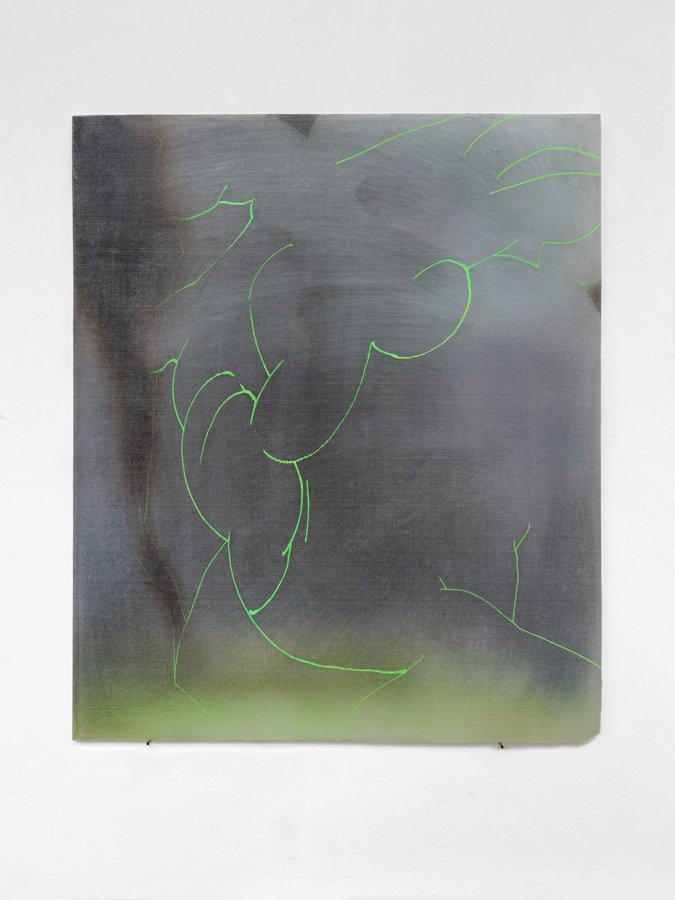
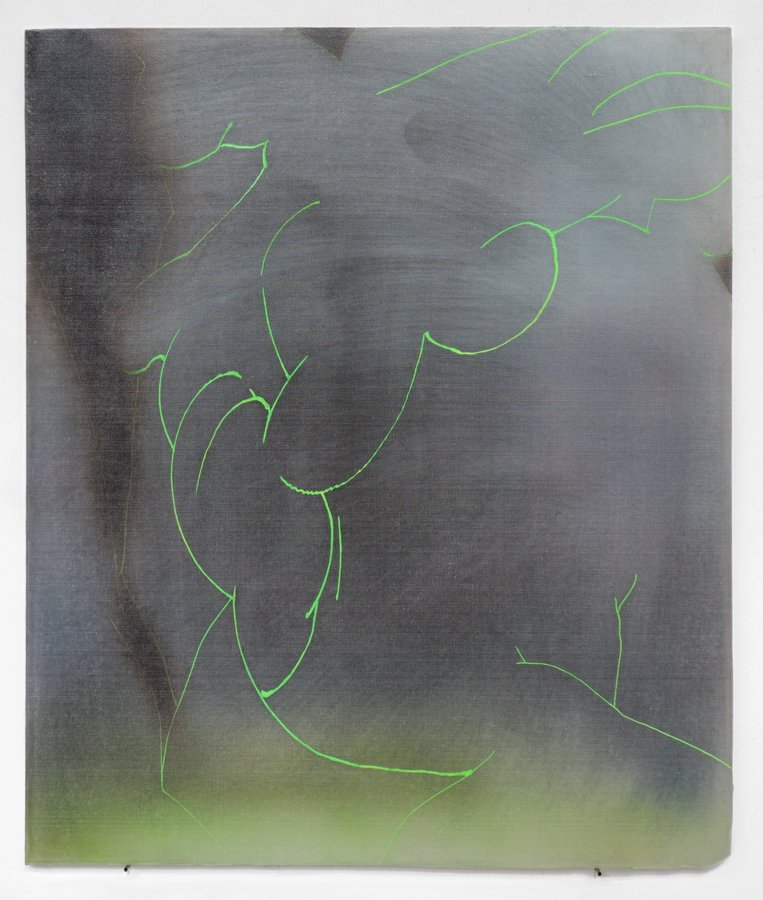
Add files via upload

diff --git a/works/archive/index.html b/works/archive/index.html
@@ -411,6 +411,45 @@
     page simply ends after group 4, same as it would have regardless
     of which group happened to render last.
 
+    IMAGE REPLACEMENT, group 5 (now "Section 1"): all nine of group 5's
+    images (archive-94 through archive-102) were replaced with newer
+    versions the artist supplied — same nine real artworks, same ids,
+    same titles/medium/dimensions/order, only the underlying jpg files
+    (and, where the new photo was framed differently, the `width`/
+    `height` fields) changed. Matched to their existing entries by
+    filename (all nine replacement files use the exact same filenames
+    as the batch that originally created this group) and confirmed by
+    opening and visually comparing each one against its current entry
+    before replacing anything — several are tighter or differently
+    cropped documentation shots of the same piece (most visibly
+    archive-95 and archive-99, both "The Stranger," which went from a
+    wider landscape crop to a tighter near-square one), which is why
+    their `width`/`height` needed updating even though nothing else
+    about the entry did. Resized the same way as every other jpg/png
+    batch on this page — long edge capped at 2200px for `image`, 900px
+    for `thumbnail`, aspect ratio of the NEW source untouched, re-
+    encoded as JPEG. The old versions of these nine files were simply
+    overwritten in place at the same archive-94..102-full/thumb.jpg
+    paths (same convention as every prior "replace," e.g. round 24's
+    sculpture removal, of leaving no orphaned old file — here there's
+    no old file to orphan, since the filename never changes on a
+    same-slot replacement, only its contents do). No entries were
+    added, removed, or reordered.
+
+    Section 1 / Section 2 gap: with group 5 now first (see "SECTION
+    REORDER" above), the artist asked for a visibly larger separation
+    specifically between it and the group that now follows it, on top
+    of the standard inter-group gap already described above — see
+    window.ARCHIVE_XL_GAP_AFTER just above ARCHIVE_WORKS and
+    ".archive-grid--gap-xl" in style.css. This is a second, independent
+    gap tier alongside ARCHIVE_LARGE_GAP_AFTER/.archive-grid--gap-large
+    (the ~650px gap already used elsewhere in this file) — that one's
+    clamp() is tuned for a specific, much taller case and wasn't
+    reused here; this tier targets ~300-350px on a typical desktop
+    width instead, and like the other gap tier, is just a plain
+    whitespace margin with no box, border, caption, or clickable
+    element.
+
     Section 6 onward, and any further reordering, are left for a
     future update — nothing about this structure needs to change to
     append another group or move an existing one again (see the
@@ -463,6 +502,16 @@
   // instead of the normal one (renderGrid() / .archive-grid--gap-large
   // in style.css). Empty array = no category currently needs this.
   window.ARCHIVE_LARGE_GAP_AFTER = ['2022-2026:1'];
+  // See the "Section 1 / Section 2 gap" note above: a second, smaller
+  // opt-in gap tier, independent of ARCHIVE_LARGE_GAP_AFTER (that one's
+  // clamp() is tuned for a much taller ~650px case and isn't reused
+  // here) — '<category>:<group>' keys listed here get a ~300-350px
+  // desktop gap after that group's grid (renderGrid() /
+  // .archive-grid--gap-xl in style.css). Group 5 is now the first
+  // group rendered in "2022-2026" (see the "SECTION REORDER" note
+  // above), so this is what separates it from the group that now
+  // follows it.
+  window.ARCHIVE_XL_GAP_AFTER = ['2022-2026:5'];
   // '<category>:<group>' -> a style.css layout-modifier suffix (see the
   // "SECTION 4" note above and .archive-grid--cols-2 in style.css).
   // Today only group 4 opts into the compact two-column variant; every
@@ -634,7 +683,7 @@
       category: '2022-2026',
       group: 5,
       width: 2200,
-      height: 1650
+      height: 1632
     },
     {
       id: 'archive-95',
@@ -645,8 +694,8 @@
       dimensions: '28.9 × 30 cm',
       category: '2022-2026',
       group: 5,
-      width: 2200,
-      height: 1669
+      width: 2111,
+      height: 2200
     },
     {
       id: 'archive-96',
@@ -657,7 +706,7 @@
       dimensions: '31 × 37 cm',
       category: '2022-2026',
       group: 5,
-      width: 1650,
+      width: 1866,
       height: 2200
     },
     {
@@ -690,8 +739,8 @@
       dimensions: '23.8 × 25 cm',
       category: '2022-2026',
       group: 5,
-      width: 1650,
-      height: 2200
+      width: 2200,
+      height: 2158
     },
     {
       id: 'archive-100',
@@ -714,8 +763,8 @@
       dimensions: '59 × 62.7 cm',
       category: '2022-2026',
       group: 5,
-      width: 1650,
-      height: 2200
+      width: 2200,
+      height: 2145
     },
     {
       id: 'archive-102',
@@ -727,7 +776,7 @@
       category: '2022-2026',
       group: 5,
       width: 2200,
-      height: 1650
+      height: 1817
     },
     {
       id: 'archive-61',

diff --git a/assets/js/main.js b/assets/js/main.js
@@ -732,12 +732,18 @@ var TY_I18N = (function () {
   // where this array is declared (window.ARCHIVE_LARGE_GAP_AFTER).
   var LARGE_GAP_AFTER = Array.isArray(window.ARCHIVE_LARGE_GAP_AFTER) ? window.ARCHIVE_LARGE_GAP_AFTER : [];
 
+  // A second, smaller opt-in gap tier — independent of LARGE_GAP_AFTER,
+  // which targets a different, much taller size for a different case.
+  // See the "Section 1 / Section 2 gap" note in works/archive/index.html
+  // and ".archive-grid--gap-xl" in style.css (window.ARCHIVE_XL_GAP_AFTER).
+  var XL_GAP_AFTER = Array.isArray(window.ARCHIVE_XL_GAP_AFTER) ? window.ARCHIVE_XL_GAP_AFTER : [];
+
   // '<category>:<group>' -> a style.css modifier suffix, applied as
   // "archive-grid--<suffix>" on that group's grid element — e.g.
   // 'cols-2' for the compact two-column variant (see the "SECTION 4"
   // note in works/archive/index.html and .archive-grid--cols-2 in
-  // style.css). Separate from LARGE_GAP_AFTER because a group can want
-  // a layout change, a bigger gap, both, or neither.
+  // style.css). Separate from LARGE_GAP_AFTER/XL_GAP_AFTER because a
+  // group can want a layout change, a bigger gap, both, or neither.
   var GROUP_LAYOUT = (window.ARCHIVE_GROUP_LAYOUT && typeof window.ARCHIVE_GROUP_LAYOUT === 'object')
     ? window.ARCHIVE_GROUP_LAYOUT
     : {};
@@ -752,11 +758,12 @@ var TY_I18N = (function () {
   // ".archive-grid + .archive-grid" gap only ever appears BETWEEN
   // groups, never before the first one — no JS-computed spacing, no
   // visible label, just plain whitespace from that CSS rule. A group
-  // whose '<category>:<group>' combo is listed in LARGE_GAP_AFTER
-  // additionally gets an "archive-grid--gap-large" class, and one
-  // listed in GROUP_LAYOUT gets an "archive-grid--<suffix>" class —
-  // both are just extra classes on the same element, style.css does
-  // the rest.
+  // whose '<category>:<group>' combo is listed in LARGE_GAP_AFTER gets
+  // an "archive-grid--gap-large" class, one listed in XL_GAP_AFTER
+  // gets "archive-grid--gap-xl", and one listed in GROUP_LAYOUT gets
+  // "archive-grid--<suffix>" — all are just extra classes on the same
+  // element (a group could in principle carry more than one), style.css
+  // does the rest.
   function renderGrid() {
     visible = works.filter(function (w) { return w.category === activeCategory; });
     grid.innerHTML = '';
@@ -777,6 +784,9 @@ var TY_I18N = (function () {
         var layoutKey = activeCategory + ':' + key;
         if (LARGE_GAP_AFTER.indexOf(layoutKey) !== -1) {
           gridEl.classList.add('archive-grid--gap-large');
+        }
+        if (XL_GAP_AFTER.indexOf(layoutKey) !== -1) {
+          gridEl.classList.add('archive-grid--gap-xl');
         }
         if (GROUP_LAYOUT[layoutKey]) {
           gridEl.classList.add('archive-grid--' + GROUP_LAYOUT[layoutKey]);

diff --git a/assets/css/style.css b/assets/css/style.css
@@ -1486,6 +1486,26 @@ body.work-detail-page .primary-nav .submenu a {
   margin-top: clamp(18rem, 45vw, 42rem);
 }
 
+/* A second, smaller opt-in gap tier — separate from --gap-large above,
+   which is already tuned for a specific, much taller ~650px case and
+   isn't reused here. Applied when a group is listed in window.
+   ARCHIVE_XL_GAP_AFTER (see the "Section 1 / Section 2 gap" note in
+   works/archive/index.html): today, the group that renders first on
+   the page, so the two "first-look" groups of works read as clearly
+   separate bodies of work right from the top of the page. Targets
+   ~300-350px on a common desktop width and scales down proportionally
+   on narrower screens, the same vw-scaling approach as --gap-large,
+   just with its own smaller min/preferred/max — 22.5vw lands at 324px
+   at 1440px wide (inside the requested range), the 22rem (352px) cap
+   keeps very wide screens close to that same range instead of growing
+   unbounded, and the 8rem (128px) floor keeps it visibly bigger than
+   the plain inter-group gap above even on small screens. Must come
+   after ".archive-grid + .archive-grid" for the same source-order
+   reason --gap-large does. */
+.archive-grid--gap-xl + .archive-grid {
+  margin-top: clamp(8rem, 22.5vw, 22rem);
+}
+
 .archive-figure { margin: 0; }
 
 .archive-thumb { display: block; width: 100%; }
